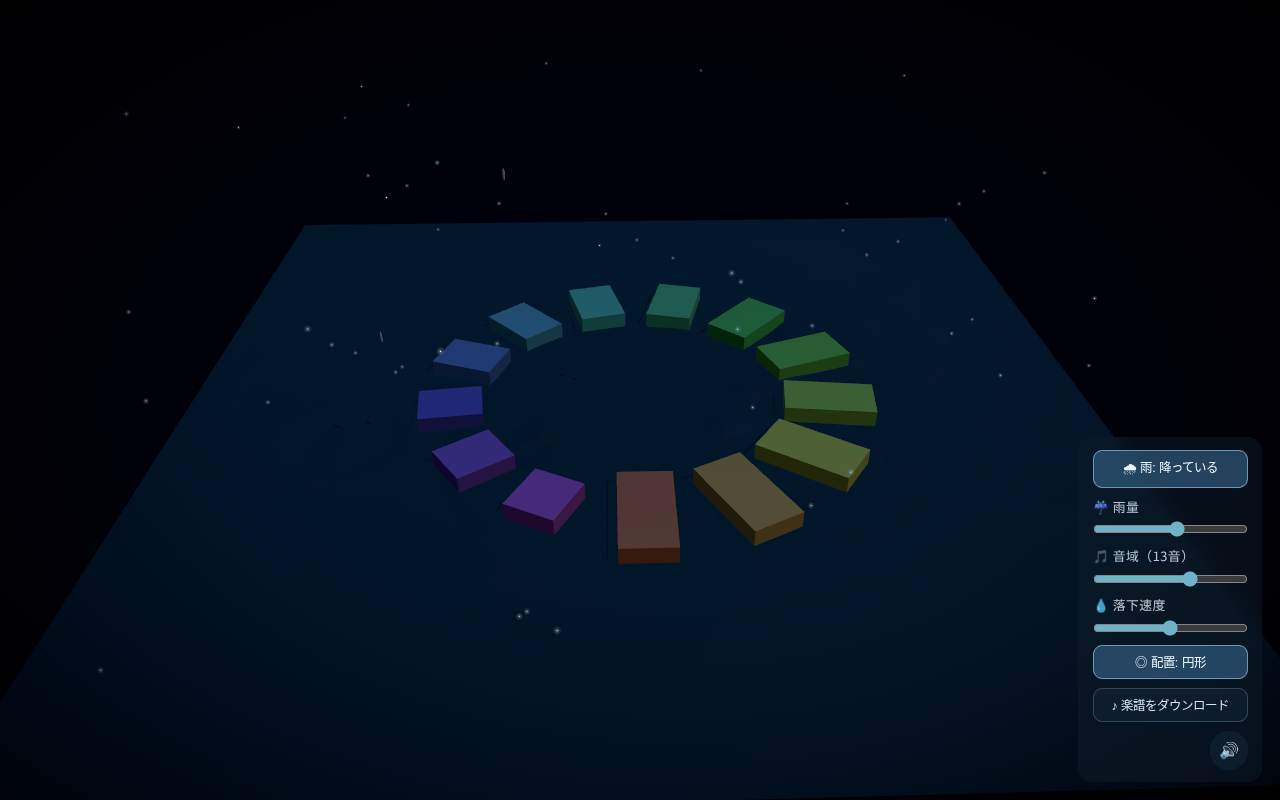
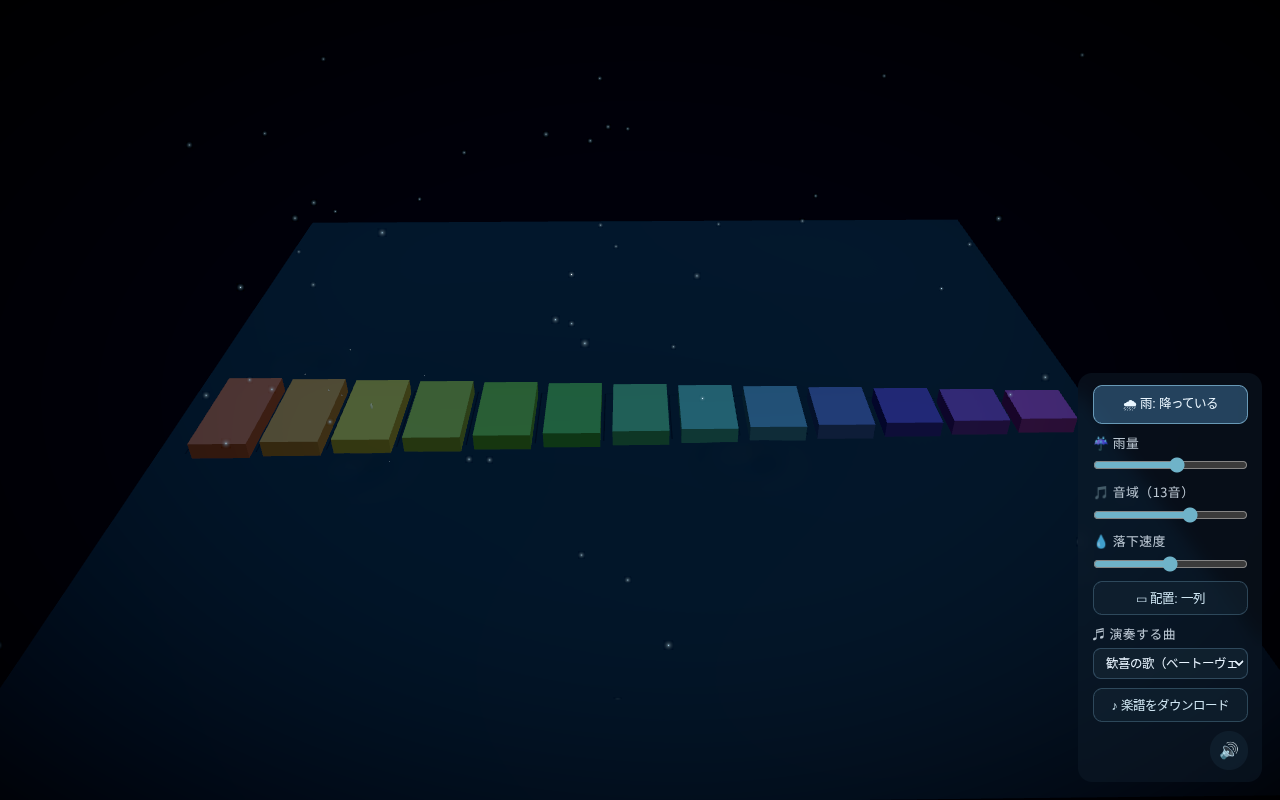
feat: 曲セレクター（public domainメロディ）を雨が自動演奏。最寄りバーへ落としつつ正音をサンプラーで発音／0.0.0.0公開

Changed region(s): [[0.125, 0.3438, 1.0, 0.875], [0.75, 0.2812, 0.7812, 0.3125], [0.2188, 0.2812, 0.25, 0.3125]]

diff --git a/src/audio/songs.ts b/src/audio/songs.ts
@@ -1,0 +1,95 @@
+/**
+ * 著作権フリー（public domain）のメロディ集。曲を選ぶと、雨がこの音符順に
+ * 最寄りのバーへ落ちて演奏する。音そのものはサンプラーで正確に鳴らす。
+ */
+export type SongNote = { note: string | null; beats: number }
+export type Song = {
+  id: string
+  name: string
+  /** 1 拍の秒数（テンポ）。 */
+  tempo: number
+  notes: SongNote[]
+}
+
+// 簡易ヘルパ
+const n = (note: string, beats = 1): SongNote => ({ note, beats })
+const r = (beats = 1): SongNote => ({ note: null, beats })
+
+/** ベートーヴェン「歓喜の歌」（交響曲第9番）。public domain。 */
+const odeToJoy: Song = {
+  id: 'ode',
+  name: '歓喜の歌（ベートーヴェン）',
+  tempo: 0.34,
+  notes: [
+    n('E4'), n('E4'), n('F4'), n('G4'), n('G4'), n('F4'), n('E4'), n('D4'),
+    n('C4'), n('C4'), n('D4'), n('E4'), n('E4', 1.5), n('D4', 0.5), n('D4', 2),
+    n('E4'), n('E4'), n('F4'), n('G4'), n('G4'), n('F4'), n('E4'), n('D4'),
+    n('C4'), n('C4'), n('D4'), n('E4'), n('D4', 1.5), n('C4', 0.5), n('C4', 2),
+    r(1),
+  ],
+}
+
+/** きらきら星（仏民謡 "Ah! vous dirai-je, maman"）。public domain。 */
+const twinkle: Song = {
+  id: 'twinkle',
+  name: 'きらきら星（民謡）',
+  tempo: 0.36,
+  notes: [
+    n('C4'), n('C4'), n('G4'), n('G4'), n('A4'), n('A4'), n('G4', 2),
+    n('F4'), n('F4'), n('E4'), n('E4'), n('D4'), n('D4'), n('C4', 2),
+    n('G4'), n('G4'), n('F4'), n('F4'), n('E4'), n('E4'), n('D4', 2),
+    n('G4'), n('G4'), n('F4'), n('F4'), n('E4'), n('E4'), n('D4', 2),
+    n('C4'), n('C4'), n('G4'), n('G4'), n('A4'), n('A4'), n('G4', 2),
+    n('F4'), n('F4'), n('E4'), n('E4'), n('D4'), n('D4'), n('C4', 2),
+    r(1),
+  ],
+}
+
+/** メリーさんのひつじ（民謡）。public domain。ペンタトニックに収まる。 */
+const mary: Song = {
+  id: 'mary',
+  name: 'メリーさんのひつじ（民謡）',
+  tempo: 0.34,
+  notes: [
+    n('E4'), n('D4'), n('C4'), n('D4'), n('E4'), n('E4'), n('E4', 2),
+    n('D4'), n('D4'), n('D4', 2), n('E4'), n('G4'), n('G4', 2),
+    n('E4'), n('D4'), n('C4'), n('D4'), n('E4'), n('E4'), n('E4'), n('E4'),
+    n('D4'), n('D4'), n('E4'), n('D4'), n('C4', 2),
+    r(1),
+  ],
+}
+
+/** さくらさくら（日本古謡）。public domain。陰音階（B・F を含む）はそのまま発音。 */
+const sakura: Song = {
+  id: 'sakura',
+  name: 'さくらさくら（日本古謡）',
+  tempo: 0.44,
+  notes: [
+    n('A4'), n('A4'), n('B4', 2), n('A4'), n('A4'), n('B4', 2),
+    n('A4'), n('B4'), n('C5'), n('B4'), n('A4'), n('B4'), n('A4', 2),
+    n('A4'), n('A4'), n('B4', 2), n('A4'), n('A4'), n('B4', 2),
+    n('A4'), n('B4'), n('C5'), n('B4'), n('A4'), n('B4'), n('A4', 2),
+    n('B4'), n('A4'), n('F4', 2), n('E4'), n('C5'), n('B4', 1), n('A4', 1),
+    n('A4'), n('B4'), n('A4'), n('F4'), n('E4', 2),
+    r(1),
+  ],
+}
+
+export const SONGS: Record<string, Song> = {
+  ode: odeToJoy,
+  twinkle,
+  mary,
+  sakura,
+}
+
+/** UI 表示順。 */
+export const SONG_LIST: Song[] = [odeToJoy, twinkle, mary, sakura]
+
+/** 音名 'C4'/'F#4' を MIDI 番号へ（最寄りバー探索用）。 */
+const SEMITONE: Record<string, number> = { C: 0, D: 2, E: 4, F: 5, G: 7, A: 9, B: 11 }
+export function noteToMidi(name: string): number {
+  const m = name.match(/^([A-G])(#?)(\d)$/)
+  if (!m) return 60
+  const [, letter, sharp, oct] = m
+  return 12 * (parseInt(oct, 10) + 1) + SEMITONE[letter] + (sharp ? 1 : 0)
+}

diff --git a/src/scene/RainSystem.tsx b/src/scene/RainSystem.tsx
@@ -23,12 +23,13 @@ import {
 } from '../config'
 import { getLayoutSnapshot, settings, subscribeLayout } from '../state/settings'
 import { playNote } from '../audio/synth'
+import { SONGS, noteToMidi } from '../audio/songs'
 import type { WaterField } from '../water/waterField'
 import { Drop } from './Drop'
 import { Splash } from './Splash'
 import { XylophoneBar } from './XylophoneBar'
 
-type DropState = { id: number; x: number; z: number; landY: number }
+type DropState = { id: number; x: number; z: number; landY: number; startY?: number }
 type SplashState = { id: number; x: number; z: number; y: number }
 
 /** 雨量スライダー最大時の毎秒生成数。 */
@@ -61,6 +62,21 @@ function barIndexAt(bars: readonly BarDef[], x: number, z: number): number {
   return -1
 }
 
+/** 指定音に最も近い音のバー index（曲演奏で雨を落とす先）。 */
+function nearestBarIndex(bars: readonly BarDef[], note: string): number {
+  const target = noteToMidi(note)
+  let best = -1
+  let bestDist = Infinity
+  for (let i = 0; i < bars.length; i++) {
+    const d = Math.abs(noteToMidi(bars[i].note) - target)
+    if (d < bestDist) {
+      bestDist = d
+      best = i
+    }
+  }
+  return best
+}
+
 /** 着地高さ。バー上ならバー天面、なければ水面。 */
 function landingYAt(bars: readonly BarDef[], x: number, z: number): number {
   const idx = barIndexAt(bars, x, z)
@@ -80,6 +96,12 @@ export function RainSystem({ field }: { field: WaterField }) {
   const nextId = useRef(0)
   const spawnTimer = useRef(0.1)
   const elapsedRef = useRef(0)
+  // 曲演奏の進行状態。
+  const songIdRef = useRef('')
+  const melodyIndex = useRef(0)
+  const melodyTimer = useRef(0)
+  // 曲演奏の雫が「正確に鳴らす音」を id ごとに保持（最寄りバーに落としつつ正音を発音）。
+  const noteOverrides = useRef(new Map<number, string>())
 
   // 音域＋配置 → バー列を動的生成（変更で板を作り直す）。
   const layout = useSyncExternalStore(subscribeLayout, getLayoutSnapshot, getLayoutSnapshot)
@@ -127,6 +149,40 @@ export function RainSystem({ field }: { field: WaterField }) {
   useFrame((state, delta) => {
     elapsedRef.current = state.clock.elapsedTime
 
+    // --- 曲演奏モード（曲が選ばれている間はランダム雨を止め、メロディを雨で奏でる） ---
+    const songId = settings.song
+    const song = songId ? SONGS[songId] : null
+    if (song) {
+      if (songIdRef.current !== songId) {
+        songIdRef.current = songId
+        melodyIndex.current = 0
+        melodyTimer.current = 0
+      }
+      melodyTimer.current -= delta
+      if (melodyTimer.current <= 0) {
+        const ev = song.notes[melodyIndex.current]
+        if (ev.note) {
+          const curBars = barsRef.current
+          const idx = nearestBarIndex(curBars, ev.note)
+          if (idx >= 0) {
+            const bar = curBars[idx]
+            const barTop = bar.position[1] + bar.size[1] / 2
+            const id = nextId.current++
+            noteOverrides.current.set(id, ev.note) // 最寄りバーに落としつつ正音を鳴らす
+            setDrops((prev) => [
+              ...prev,
+              { id, x: bar.position[0], z: bar.position[2], landY: barTop, startY: barTop + 1.0 },
+            ])
+          }
+        }
+        melodyTimer.current += ev.beats * song.tempo
+        melodyIndex.current = (melodyIndex.current + 1) % song.notes.length
+      }
+      return
+    }
+    songIdRef.current = ''
+
+    // --- ランダム雨モード ---
     spawnTimer.current -= delta
     if (spawnTimer.current <= 0) {
       const interval = nextInterval()
@@ -160,13 +216,17 @@ export function RainSystem({ field }: { field: WaterField }) {
     (id: number, x: number, z: number) => {
       setDrops((prev) => prev.filter((d) => d.id !== id))
 
+      // 曲演奏の雫は「正確な音」を持つ（最寄りバーへ落としつつこの音を鳴らす）。
+      const override = noteOverrides.current.get(id)
+      if (override !== undefined) noteOverrides.current.delete(id)
+
       const curBars = barsRef.current
       const barIdx = barIndexAt(curBars, x, z)
 
       if (barIdx >= 0) {
         const bar = curBars[barIdx]
         const barTop = bar.position[1] + bar.size[1] / 2
-        playNote(bar.note, x)
+        playNote(override ?? bar.note, x)
         hitRefsRef.current[barIdx].current = elapsedRef.current
 
         const splashId = nextId.current++
@@ -174,7 +234,11 @@ export function RainSystem({ field }: { field: WaterField }) {
         return
       }
 
-      // 水面に着水 → 水面シムへ波を注入（波紋は GPU シミュレーションが描く。着水音は無し）。
+      // バー外: 曲演奏の音だけは確実に鳴らす。それ以外は水面へ波を注入。
+      if (override !== undefined) {
+        playNote(override, x)
+        return
+      }
       const [u, v] = worldToUv(x, z)
       field.impacts.push({ u, v, strength: IMPACT_STRENGTH })
     },
@@ -197,6 +261,7 @@ export function RainSystem({ field }: { field: WaterField }) {
           id={d.id}
           x={d.x}
           z={d.z}
+          startY={d.startY}
           landY={d.landY}
           geometry={dropGeometry}
           material={dropMaterial}

diff --git a/src/ui/Controls.tsx b/src/ui/Controls.tsx
@@ -7,8 +7,10 @@ import {
   setRain,
   setRainOn,
   setRangeLevel,
+  setSong,
 } from '../state/settings'
 import { levelToCount } from '../config'
+import { SONG_LIST } from '../audio/songs'
 import { downloadScore } from '../score/downloadScore'
 
 /** 右下の小さな操作パネル。雨ON/OFF・雨量・音域・落下速度・配置・楽譜DL・ミュート。 */
@@ -19,6 +21,7 @@ export function Controls() {
   const [range, setRangeState] = useState(settings.rangeLevel)
   const [fall, setFallState] = useState(settings.fallSpeed)
   const [circle, setCircle] = useState(settings.barShape === 'circle')
+  const [song, setSongState] = useState(settings.song)
   const [scoreMsg, setScoreMsg] = useState<string | null>(null)
 
   const handleScore = async () => {
@@ -103,6 +106,25 @@ export function Controls() {
       >
         {circle ? '◎ 配置: 円形' : '▭ 配置: 一列'}
       </button>
+
+      <label className="control-row">
+        <span className="control-label">♬ 演奏する曲</span>
+        <select
+          className="control-select"
+          value={song}
+          onChange={(e) => {
+            setSong(e.target.value)
+            setSongState(e.target.value)
+          }}
+        >
+          <option value="">ランダム（生成）</option>
+          {SONG_LIST.map((s) => (
+            <option key={s.id} value={s.id}>
+              {s.name}
+            </option>
+          ))}
+        </select>
+      </label>
 
       <button className="control-toggle" onClick={handleScore}>
         {scoreMsg ?? '♪ 楽譜をダウンロード'}

diff --git a/src/index.css b/src/index.css
@@ -98,6 +98,17 @@ body {
   cursor: pointer;
 }
 
+.control-select {
+  width: 100%;
+  background: rgba(20, 38, 54, 0.6);
+  color: #e8f4ff;
+  border: 1px solid rgba(120, 170, 200, 0.3);
+  border-radius: 0.5rem;
+  padding: 0.4rem 0.5rem;
+  font-size: 0.78rem;
+  cursor: pointer;
+}
+
 .control-toggle {
   border: 1px solid rgba(120, 170, 200, 0.3);
   border-radius: 0.6rem;

diff --git a/src/scene/Drop.tsx b/src/scene/Drop.tsx
@@ -8,6 +8,8 @@ export type DropProps = {
   id: number
   x: number
   z: number
+  /** 落下開始の高さ（既定は上空。曲演奏ではバーの少し上から）。 */
+  startY?: number
   /** 着地する高さ（水面、またはバー上ならバー天面）。 */
   landY: number
   geometry: BufferGeometry
@@ -20,7 +22,8 @@ export type DropProps = {
  * 落下中は速度に応じて縦に伸びた雫の形になる（モーションストレッチ）。
  * 位置・スケールは ref で直接更新し、毎フレームの React 再レンダリングを避ける。
  */
-export function Drop({ id, x, z, landY, geometry, material, onLand }: DropProps) {
+export function Drop({ id, x, z, startY, landY, geometry, material, onLand }: DropProps) {
+  const initialY = startY ?? DROP_START_Y
   const ref = useRef<Mesh>(null)
   const velocity = useRef(0)
   const landed = useRef(false)
@@ -45,6 +48,6 @@ export function Drop({ id, x, z, landY, geometry, material, onLand }: DropProps)
   })
 
   return (
-    <mesh ref={ref} position={[x, DROP_START_Y, z]} geometry={geometry} material={material} castShadow />
+    <mesh ref={ref} position={[x, initialY, z]} geometry={geometry} material={material} castShadow />
   )
 }

diff --git a/src/state/settings.ts b/src/state/settings.ts
@@ -16,6 +16,12 @@ export const settings = {
   fallSpeed: 0.5,
   /** バーの配置（一列 / 円形）。 */
   barShape: 'row' as BarShape,
+  /** 演奏する曲の id（'' でランダム生成）。 */
+  song: '',
+}
+
+export function setSong(id: string): void {
+  settings.song = id
 }
 
 export function setRain(v: number): void {